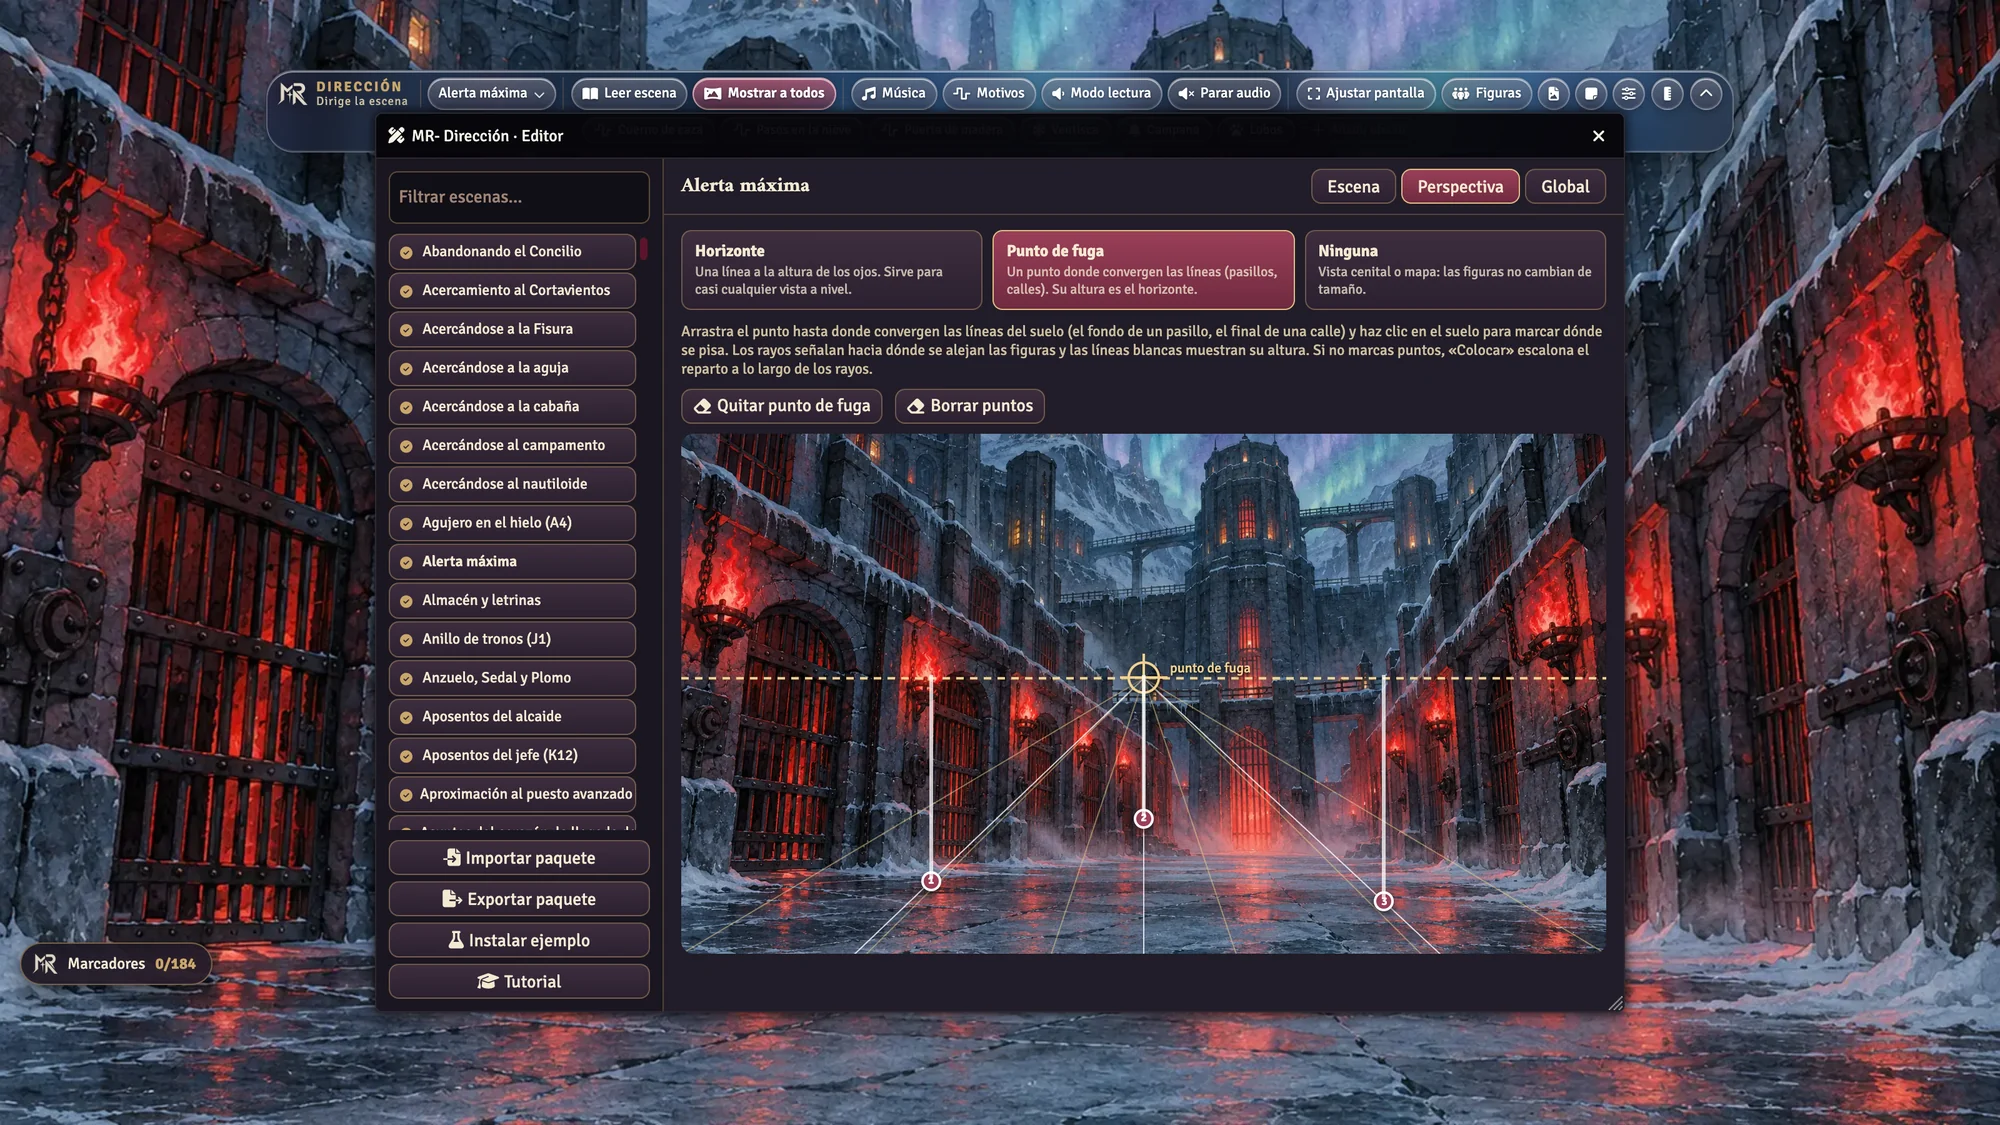
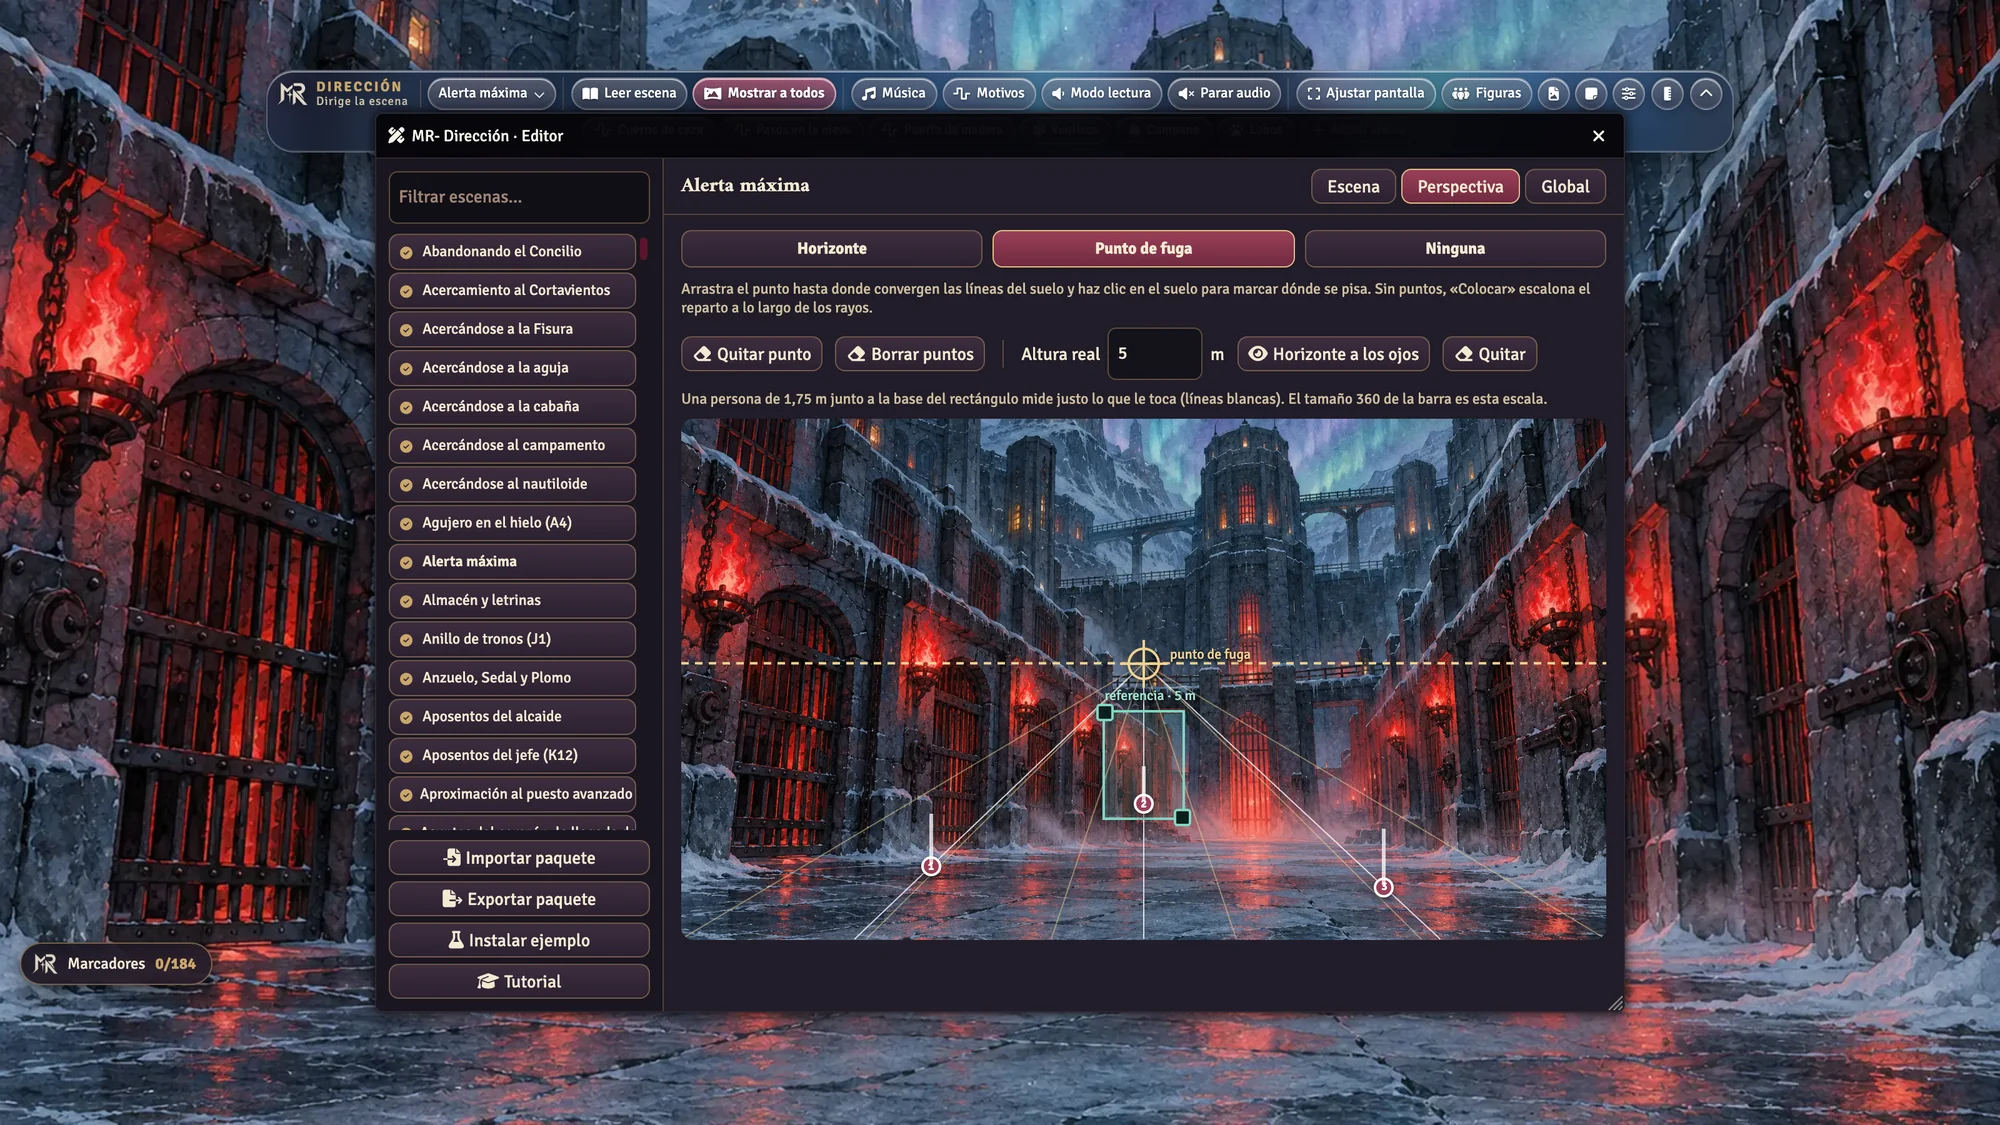
v0.3.0: referencia de escala (rectángulo sobre la puerta) y editor de perspectiva más compacto

Changed region(s): [[0.341, 0.2178, 0.806, 0.8711]]

diff --git a/styles/direccion.css b/styles/direccion.css
@@ -127,7 +127,12 @@
 .mrd-ref .mrd-ref-src{flex:1;min-width:90px;font-size:11px}
 .mrd-dropzone{padding:10px;text-align:center;font-size:12px;color:#cdbf9f;border:1px dashed rgba(202,166,107,.5);border-radius:8px;margin-top:6px}
 .mrd-hint{font-size:12px;color:#cdbf9f;margin:0 0 8px}.mrd-checks{display:flex;flex-wrap:wrap;gap:4px 12px}.mrd-checks label{display:flex;gap:5px;align-items:center}
-.mrd-floor-bar{display:flex;gap:10px;align-items:center;margin-bottom:8px}
+.mrd-floor-bar{display:flex;flex-wrap:wrap;gap:8px 10px;align-items:center;margin-bottom:8px}
+.mrd-floor-bar label{display:flex;align-items:center;gap:6px;white-space:nowrap;margin:0}
+.mrd-editor .mrd-floor-bar input[type=number]{width:76px;flex:0 0 auto}
+.mrd-sep{width:1px;height:22px;background:rgba(202,166,107,.35);margin:0 4px}
+.mrd-modes{margin-bottom:6px}
+.mrd-editor .mrd-hint{margin:4px 0 8px}
 .mrd-floor{position:relative;container-type:size;width:100%;max-height:60vh;margin:0 auto;border-radius:10px;overflow:hidden;cursor:crosshair;touch-action:none}
 .mrd-floor img{position:absolute;inset:0;width:100%;height:100%;object-fit:fill;pointer-events:none}
 .mrd-horizon{position:absolute;left:0;right:0;height:0;border-top:2px dashed #f0d28f;cursor:ns-resize}.mrd-horizon::before{content:"";position:absolute;left:0;right:0;top:-8px;height:16px}.mrd-horizon span{position:absolute;right:8px;top:-20px;font-size:11px;color:#f0d28f;text-shadow:0 1px 3px #000}
@@ -135,7 +140,7 @@
 .mrd-anchor b{font-size:9px;color:#fff;pointer-events:none}
 .mrd-anchor-fig{position:absolute;left:50%;bottom:8px;width:0;border-left:3px solid rgba(255,255,255,.75);pointer-events:none;transform:translateX(-50%)}
 .mrd-modes{display:grid;grid-template-columns:repeat(3,1fr);gap:8px;margin-bottom:10px}
-.mrd-editor .mrd-modes button{display:flex;flex-direction:column;align-items:flex-start;gap:2px;height:auto;padding:8px 10px;text-align:left;line-height:1.25;white-space:normal}
+.mrd-editor .mrd-modes button{display:flex;align-items:center;justify-content:center;height:auto;padding:6px 10px;line-height:1.25;white-space:normal}
 .mrd-modes button b{font-size:13px}.mrd-modes button small{font-size:11px;opacity:.75;font-weight:400}
 .mrd-editor .mrd-modes button.is-on{background:linear-gradient(180deg,#9a3f58,#6f2a3f);border-color:#e0bd83}
 .mrd-rays{position:absolute;inset:0;width:100%;height:100%;pointer-events:none}
@@ -146,6 +151,13 @@
 .mrd-vp::before,.mrd-vp::after{content:"";position:absolute;background:#f0d28f}
 .mrd-vp::before{left:50%;top:-8px;bottom:-8px;width:2px;margin-left:-1px}.mrd-vp::after{top:50%;left:-8px;right:-8px;height:2px;margin-top:-1px}
 .mrd-vp span{position:absolute;left:32px;top:-3px;font-size:11px;color:#f0d28f;white-space:nowrap;text-shadow:0 1px 3px #000}
+.mrd-floor.is-drawing{cursor:copy}
+.mrd-editor .mrd-ref-bar button.is-on{background:linear-gradient(180deg,#2f8f7d,#1d5f54);border-color:#9fe3d3}
+.mrd-ref-box{position:absolute;border:2px solid #7fd6c2;background:rgba(127,214,194,.14);pointer-events:none}
+.mrd-ref-box.is-new{border-style:dashed}
+.mrd-ref-box em{position:absolute;left:0;top:-20px;font-size:11px;font-style:normal;color:#9fe3d3;white-space:nowrap;text-shadow:0 1px 3px #000}
+.mrd-ref-h{position:absolute;width:14px;height:14px;margin:-7px 0 0 -7px;border:2px solid #7fd6c2;background:#0b1f1c;border-radius:3px;cursor:nwse-resize;pointer-events:auto}
+.mrd-ref-h[data-corner="0"]{left:0;top:0}.mrd-ref-h[data-corner="1"]{left:100%;top:100%}
 /* sin audio: translúcido, pero pulsable para asignarlo al momento */
 #mr-direccion-bar .mrd-btn.mrd-off{opacity:.45;border-style:dashed}
 #mr-direccion-bar .mrd-btn.mrd-off:hover{opacity:.9}

diff --git a/README.md b/README.md
@@ -61,7 +61,7 @@ Una **barra de dirección** que solo ve el GM, nacida en *MR · El Trono de la S
 </tr>
 <tr>
 <td width="50%"><img src="docs/img/markers.webp" alt="Panel de marcadores con reloj e hitos"><br><sub><b>Marcadores</b>: reloj de las siete lámparas e hitos secretos.</sub></td>
-<td width="50%"><img src="docs/img/perspectiva.webp" alt="Editor de perspectiva con punto de fuga"><br><sub><b>Perspectiva</b>: horizonte, punto de fuga o ninguna; los rayos y las líneas blancas muestran hacia dónde se alejan las figuras y su altura.</sub></td>
+<td width="50%"><img src="docs/img/perspectiva.webp" alt="Editor de perspectiva con punto de fuga"><br><sub><b>Perspectiva</b>: horizonte, punto de fuga o ninguna, y un rectángulo sobre la puerta (u otro objeto de medida conocida) que calibra el tamaño real de las figuras.</sub></td>
 </tr>
 <tr>
 <td width="50%"><img src="docs/img/classic.webp" alt="Estilo clásico"><br><sub>Estilo <b>Clásico</b>.</sub></td>
@@ -87,7 +87,7 @@ Funciona con **cualquier sistema** (probado con Cairn, dnd5e, Legend in the Mist
 2. **Abre el Editor** y elige una escena propia.
 3. **Música y lectura (2 min).** Arrastra un sonido de una lista de reproducción a *Música de la escena* y un diario o página a *Lectura inicial*. También puedes escribir la ruta de un archivo de audio. O pulsa **Autoconfigurar** y revisa el borrador.
 4. **Efectos y motivos (2 min).** Arrastra sonidos a *Efectos de la escena*. En la pestaña **Global** pulsa *Añadir motivos habituales* y arrastra la música de cada uno.
-5. **Perspectiva (2 min).** En *Perspectiva* elige **Horizonte** (arrastra la línea punteada hasta la altura de los ojos de un personaje de pie) o **Punto de fuga** (arrastra el punto hasta donde convergen las líneas del suelo, p. ej. el fondo de un pasillo) y haz clic en el suelo para marcar dónde se pisa. Para un mapa cenital elige **Ninguna**: las figuras no cambian de tamaño. Arrastra actores a *Figuras* y, en la barra, **Figuras → Colocar el reparto**.
+5. **Perspectiva (2 min).** En *Perspectiva* elige **Horizonte** (arrastra la línea punteada hasta la altura de los ojos de un personaje de pie) o **Punto de fuga** (arrastra el punto hasta donde convergen las líneas del suelo, p. ej. el fondo de un pasillo) y haz clic en el suelo para marcar dónde se pisa. Opcional: dibuja un rectángulo sobre la puerta del fondo e indica su altura real (≈ 2,1 m) y las figuras saldrán a su escala real. Para un mapa cenital elige **Ninguna**: las figuras no cambian de tamaño. Arrastra actores a *Figuras* y, en la barra, **Figuras → Colocar el reparto**.
 6. **Ayudas y marcadores (2 min).** Arrastra diarios o imágenes a *Ayudas*; en Global crea hitos y relojes.
 7. **Compártelo.** **Exportar paquete** guarda un JSON; **Importar paquete** lo aplica en otro mundo (las escenas se enlazan por la referencia que indique el paquete).
 
@@ -172,7 +172,7 @@ A GM-only **direction bar**, born in *MR · The Throne of Thirst* and turned int
 <td width="50%"><img src="docs/img/markers-en.webp" alt="Markers panel with clocks and milestones, and the figures menu"><br><sub><b>Markers</b> (three clocks and the evidence milestones) and the <b>Figures</b> menu with the size bar.</sub></td>
 </tr>
 <tr>
-<td width="50%"><img src="docs/img/perspectiva-en.webp" alt="Perspective editor with a vanishing point"><br><sub><b>Perspective</b>: horizon, vanishing point or none; the rays and white lines show where figures recede and how tall they are.</sub></td>
+<td width="50%"><img src="docs/img/perspectiva-en.webp" alt="Perspective editor with a vanishing point"><br><sub><b>Perspective</b>: horizon, vanishing point or none, plus a rectangle over the door (or any object of known size) that calibrates the figures’ real size.</sub></td>
 <td width="50%"><img src="docs/img/preview.webp" alt="Scene preview after resting the cursor"><br><sub><b>Preview</b> after 1 s on a scene.</sub></td>
 </tr>
 <tr>
@@ -199,7 +199,7 @@ Works with **any system** (tested with Cairn, dnd5e, Legend in the Mist and Moth
 2. **Open the Editor** and pick one of your own scenes.
 3. **Music and read-aloud (2 min).** Drag a sound from a playlist into *Scene music* and a journal or page into *Opening reading*. You can also type an audio file path. Or press **Auto-configure** and review the draft.
 4. **Effects and motifs (2 min).** Drag sounds into *Scene effects*. In the **Global** tab press *Add common motifs* and drag the music for each one.
-5. **Perspective (2 min).** In *Perspective* choose **Horizon** (drag the dotted line to the eye height of a standing character) or **Vanishing point** (drag the point to where the floor lines converge, e.g. the end of a corridor) and click the floor to mark where people stand. For a top-down map choose **None**: figures keep their size. Drag actors into *Figures* and, on the bar, **Figures → Place the cast**.
+5. **Perspective (2 min).** In *Perspective* choose **Horizon** (drag the dotted line to the eye height of a standing character) or **Vanishing point** (drag the point to where the floor lines converge, e.g. the end of a corridor) and click the floor to mark where people stand. Optional: draw a rectangle over the door at the end and enter its real height (≈ 2.1 m) so figures come out at their real scale. For a top-down map choose **None**: figures keep their size. Drag actors into *Figures* and, on the bar, **Figures → Place the cast**.
 6. **Handouts and markers (2 min).** Drag journals or images into *Handouts*; create milestones and clocks in Global.
 7. **Share it.** **Export pack** saves a JSON; **Import pack** applies it in another world (scenes are linked by the reference the pack gives).
 

diff --git a/CHANGELOG.md b/CHANGELOG.md
@@ -1,5 +1,15 @@
 # Cambios · Changelog
 
+## 0.3.0 (2026-11-01)
+- **Referencia de escala:** en la pestaña Perspectiva puedes dibujar un **rectángulo sobre la puerta del fondo** (o una mesa, una columna…) e indicar su altura real (una puerta mide unos 2,1 m). Una persona de 1,75 m junto a su base mide justo lo que le toca, así que las figuras salen a su **escala real** en lugar de depender de un tamaño a ojo. Las líneas blancas de los puntos de apoyo muestran esa altura. Funciona con horizonte y con punto de fuga; el tamaño 360 de la barra equivale a esta escala.
+- El botón **Horizonte a los ojos** coloca la línea del horizonte (o la altura del punto de fuga) a la altura de los ojos medida sobre el rectángulo. Las esquinas del rectángulo se arrastran.
+- El editor es más compacto: los tres modos son una fila de botones (la descripción pasa a tooltip), modo y referencia comparten una barra de herramientas y la ventana es algo más alta.
+- Sin referencia todo funciona exactamente igual que antes. El esquema de paquete sigue en la versión 1: `stage.ref` y `stage.refM` son opcionales.
+- **Scale reference:** in the Perspective tab you can draw a **rectangle over the door at the end** (or a table, a column…) and enter its real height (a door is about 2.1 m). A 1.75 m person at its base is exactly as tall as they should be, so figures come out at their **real scale** instead of depending on a by-eye size. The white lines at the floor points show that height. Works with horizon and vanishing point; size 360 in the bar equals this scale.
+- The **Horizon at eye height** button puts the horizon line (or the vanishing point's height) at eye height measured on the rectangle. The rectangle's corners are draggable.
+- The editor is more compact: the three modes are a row of buttons (the description is a tooltip), mode and reference share one toolbar and the window is a bit taller.
+- Without a reference everything works exactly as before. The pack schema stays at version 1: `stage.ref` and `stage.refM` are optional.
+
 ## 0.2.0 (2026-11-01)
 - **Perspectiva a elegir por escena:** la pestaña del editor (antes «Suelo y horizonte», ahora **Perspectiva**) ofrece tres modos: **Horizonte** (como hasta ahora), **Punto de fuga** (un punto que arrastras hasta donde convergen las líneas del suelo, por ejemplo el fondo de un pasillo; el editor dibuja los rayos y la línea de horizonte) y **Ninguna** (vista cenital o mapa: las figuras no cambian de tamaño).
 - Con punto de fuga y sin puntos de apoyo, **Colocar el reparto** escalona las figuras a distintas profundidades a lo largo de los rayos que salen del punto de fuga; al arrastrar una figura su tamaño se recalcula como siempre.

diff --git a/docs/DISENO.md b/docs/DISENO.md
@@ -43,7 +43,7 @@ Nada usa `game.system.id`: lo específico de un sistema iría en un adaptador ap
     "figures": [{"ref":REF,"label":""}],     // actores
     "handouts": [{"ref":REF,"label":""}],    // diarios, páginas, actores o imágenes
     "notes": "", "thumb": "ruta.webp",
-    "stage": {"mode": "horizon|vanishing|none", "eye": 0.5, "vp": [x,y]|null, "anchors": [[x,y],…]}   // fracciones del fondo; sin mode = horizon
+    "stage": {"mode": "horizon|vanishing|none", "eye": 0.5, "vp": [x,y]|null, "ref": [x0,y0,x1,y1]|null, "refM": 2.1, "anchors": [[x,y],…]}   // fracciones del fondo; sin mode = horizon
   }]
 }
 ```
@@ -51,6 +51,8 @@ Nada usa `game.system.id`: lo específico de un sistema iría en un adaptador ap
 
 ## Perspectiva
 Tres modos por escena (`stage.mode`): **horizon** (línea `eye`), **vanishing** (punto de fuga `vp`; con la cámara a nivel el punto de fuga cae en el horizonte, así que su altura hace de `eye` y la X no cambia el tamaño: sirve para colocar el punto con un clic, ver los rayos y repartir el reparto escalonado a lo largo de ellos cuando no hay apoyos, `vpAnchors`) y **none** (vista cenital: sin escala, tamaño uniforme). `effectiveStage` resuelve cuál aplica; los modos son retrocompatibles (sin `mode` = horizon).
+
+**Referencia de escala** (`stage.ref`, `stage.refM`): un rectángulo dibujado sobre un objeto de medida conocida (la puerta del fondo, 2,1 m por defecto). Con cámara a nivel, una persona de 1,75 m al pie del rectángulo mide `1,75/refM` de su alto; `refScale` convierte eso en un factor `k` sobre el modelo base (cabeza en el horizonte), que `figureSize` aplica. Sin referencia `k=1` y nada cambia; con ella, el tamaño 360 de la barra equivale a la escala real. `eyeFromRef` coloca el horizonte a la altura de los ojos (1,6 m) medida sobre el rectángulo.
 
 Altura de una figura = `(pies − eye) · alto de escena / visible · (píxeles / 360)`, con `visible = 0,885` y margen de pies `0,055` (los del token estándar). Solo se coloca sobre los puntos de apoyo del suelo; al arrastrar se recalcula conservando el centro y la línea de los pies. El tamaño inicial al crear una ficha solo se da a las colocadas por la barra (marca `placed`) o de actores de la lista; el resto de opciones (reajuste al mover, giro, regla, barra de tamaño) valen para todas las fichas de una escena configurada. En v13 el reajuste por profundidad es una segunda actualización tras el movimiento (`updateToken`), y el giro hacia el movimiento también se reaplica ahí porque otros módulos pueden quitarlo.
 

diff --git a/docs/DESIGN.md b/docs/DESIGN.md
@@ -43,7 +43,7 @@ Nothing uses `game.system.id`: anything system-specific would go into a separate
     "figures": [{"ref":REF,"label":""}],     // actors
     "handouts": [{"ref":REF,"label":""}],    // journals, pages, actors or images
     "notes": "", "thumb": "path.webp",
-    "stage": {"mode": "horizon|vanishing|none", "eye": 0.5, "vp": [x,y]|null, "anchors": [[x,y],…]}   // fractions of the background; no mode = horizon
+    "stage": {"mode": "horizon|vanishing|none", "eye": 0.5, "vp": [x,y]|null, "ref": [x0,y0,x1,y1]|null, "refM": 2.1, "anchors": [[x,y],…]}   // fractions of the background; no mode = horizon
   }]
 }
 ```
@@ -51,6 +51,8 @@ Nothing uses `game.system.id`: anything system-specific would go into a separate
 
 ## Perspective
 Three modes per scene (`stage.mode`): **horizon** (the `eye` line), **vanishing** (vanishing point `vp`; with a level camera the vanishing point lies on the horizon, so its height acts as `eye` and its X does not change size: it lets you place the point with one click, see the rays and, when there are no anchors, spreads the cast staggered along them, `vpAnchors`) and **none** (top-down view: no scaling, uniform size). `effectiveStage` resolves which one applies; modes are backward compatible (no `mode` = horizon).
+
+**Scale reference** (`stage.ref`, `stage.refM`): a rectangle drawn over an object of known size (the door at the end, 2.1 m by default). With a level camera, a 1.75 m person at the rectangle's base is `1.75/refM` of its height; `refScale` turns that into a factor `k` over the base model (head on the horizon), which `figureSize` applies. With no reference `k=1` and nothing changes; with one, size 360 in the bar equals real scale. `eyeFromRef` puts the horizon at eye height (1.6 m) measured on the rectangle.
 
 Figure height = `(feet − eye) · scene height / visible · (pixels / 360)`, with `visible = 0.885` and a feet margin of `0.055` (those of the standard token). Figures are only placed on the floor anchors; dragging recomputes the size keeping the center and the feet line. The initial size on creation is only given to tokens placed by the bar (`placed` flag) or to listed actors; the other options (rescale on move, rotation, ruler, size bar) apply to every token in a configured scene. In v13 the depth rescale is a second update after the movement (`updateToken`), and turning toward the movement is also reapplied there because other modules may remove it.
 
